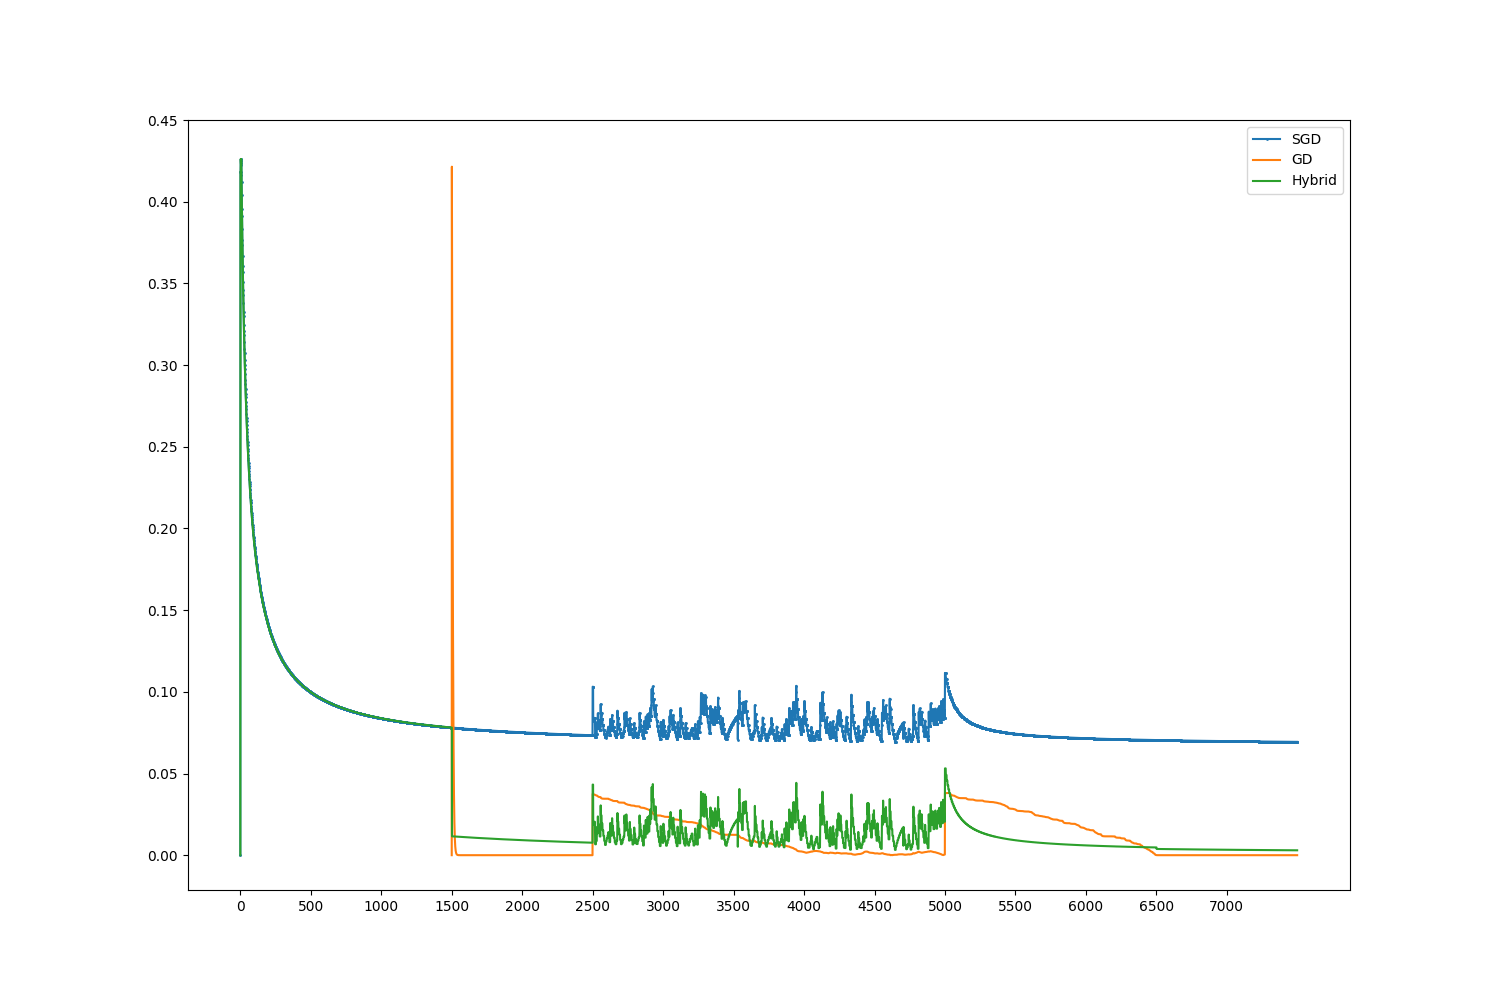
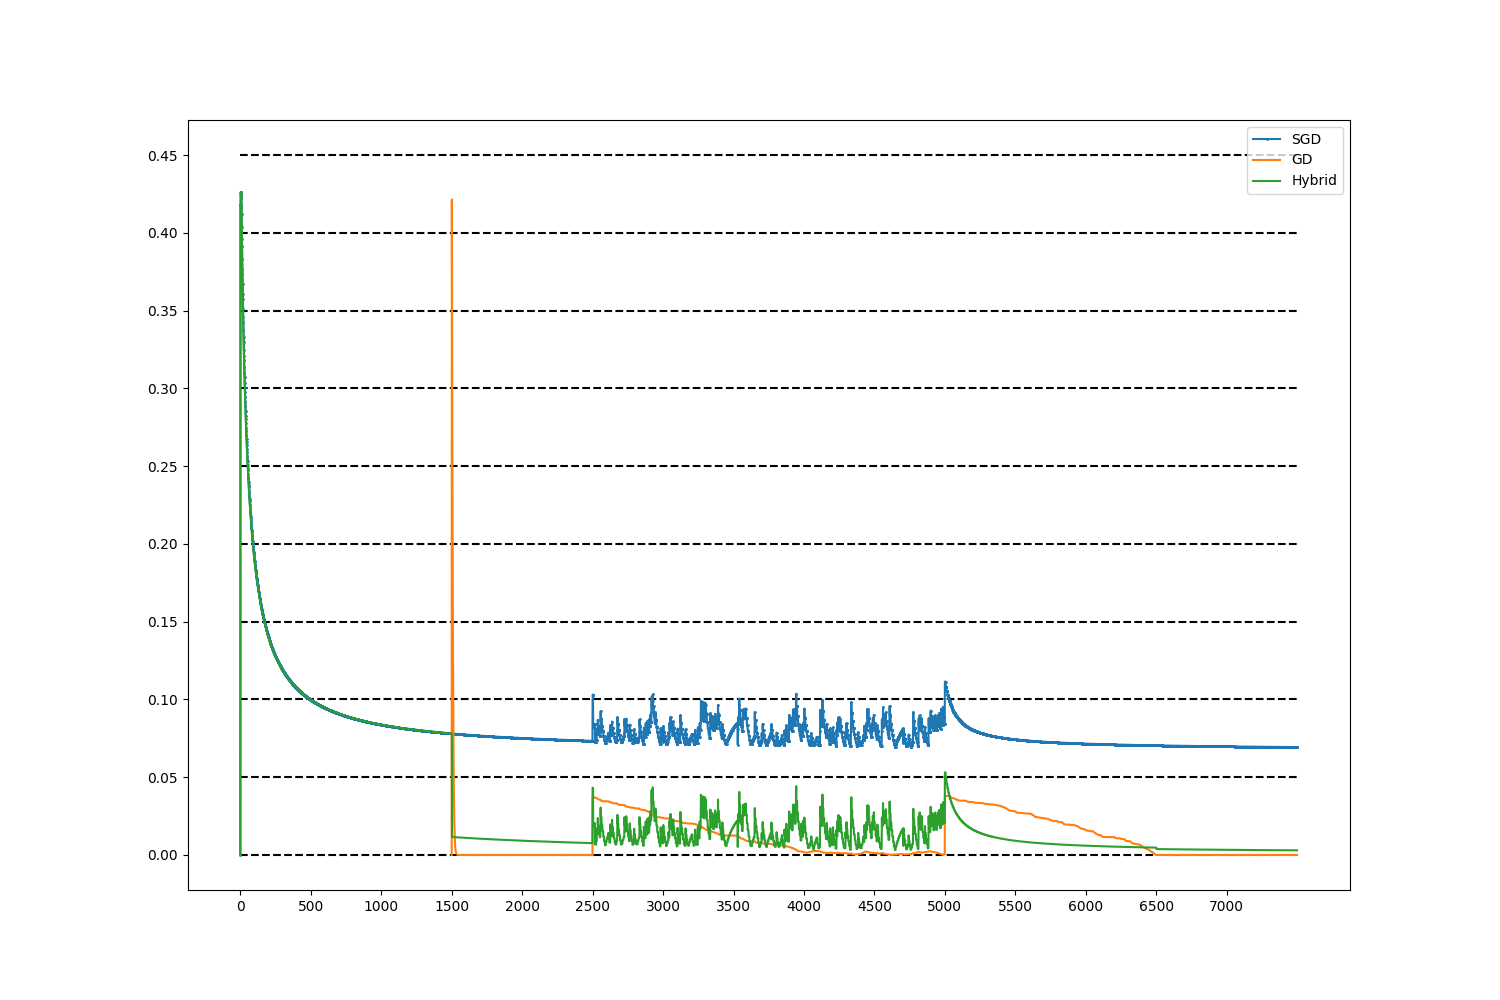
modify README and make python directory

diff --git a/python/ex4.py b/python/ex4.py
@@ -12,6 +12,7 @@ x = df['ActionSet']
 y1 = df['SGD']
 y2 = df['GD']
 y3 = df['Hybrid']
+
 plt.figure(figsize=(15, 10), dpi=100)
 plt.plot(x, y1, label="SGD", marker="o", markersize=1)
 plt.plot(x, y2, label="GD")
@@ -19,4 +20,5 @@ plt.plot(x, y3, label="Hybrid")
 plt.legend()
 plt.xticks(np.arange(0, 7500, 500))
 plt.yticks(np.arange(0.0, 0.5, 0.05))
+plt.hlines(np.arange(0.0, 0.5, 0.05), 0, 7500, linestyle='dashed')
 plt.savefig("ex4.png")

diff --git a/README.md b/README.md
@@ -20,6 +20,10 @@
 - `True_Probability_TIRE5_C_v6.csv` <br>
 <img src="/resources/images/Environment_v6.png" width="50%">
 
+### 環境3
+- `TIRE5_C_v7_Traces.txt` <br>
+- `True_Probability_TIRE5_C_v7.csv` <br>
+<img src="/resources/images/Environment_v7.png" width="50%">
 
 ## 引数
 - gd: 勾配効果法
